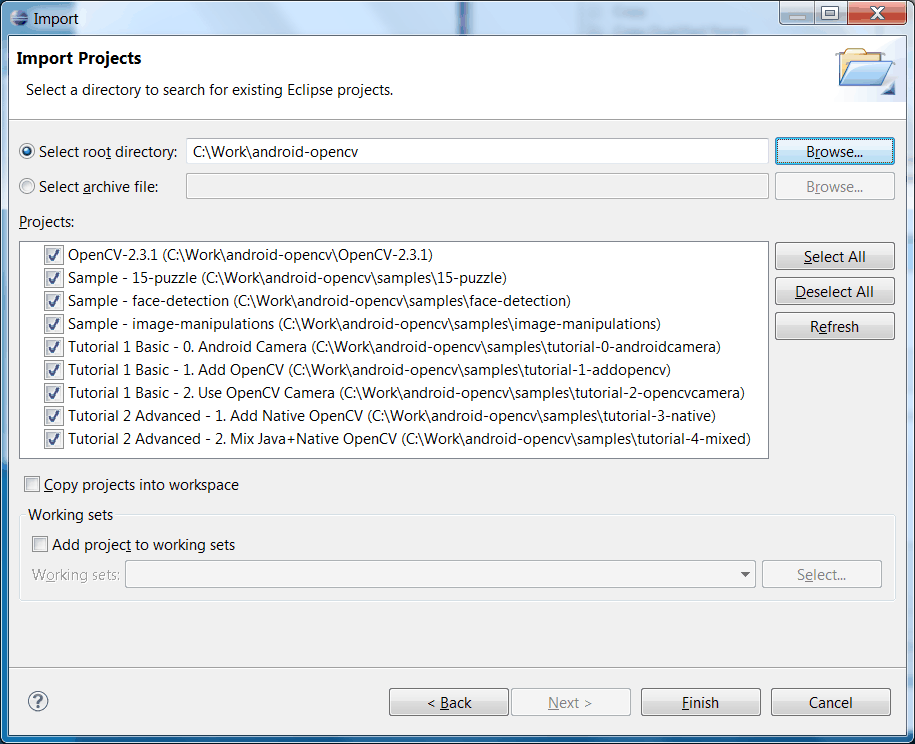
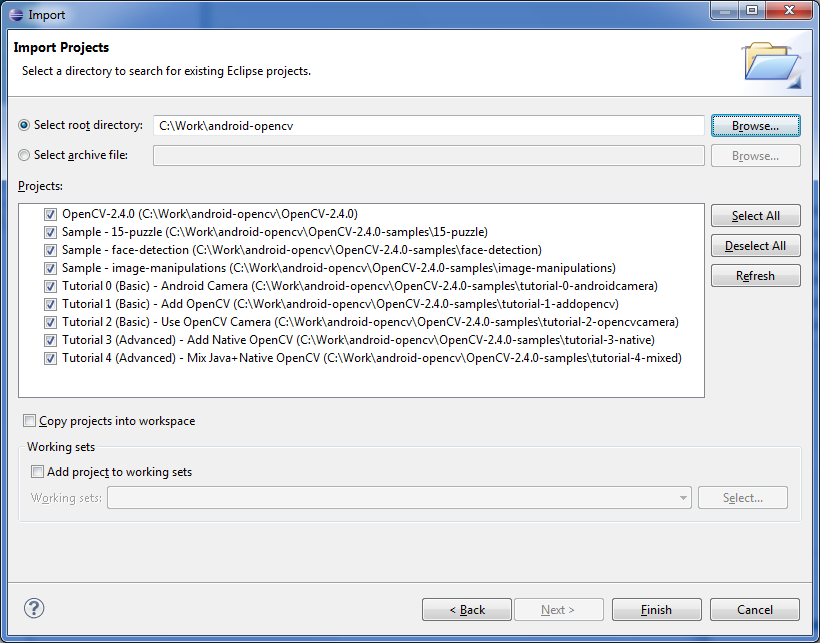
tutorial updated
git-svn-id: file://localhost/home/tolik/svnrepo/trunk@8654 c5418bc3-7546-4aae-8bad-fa6f2f3e53e6

Changed region(s): [[0.0, 0.0, 1.0, 1.0]]

diff --git a/opencv/doc/tutorials/introduction/android_binary_package/android_binary_package.rst b/opencv/doc/tutorials/introduction/android_binary_package/android_binary_package.rst
@@ -89,7 +89,7 @@ You need the following tools to be installed:
    * *SDK Platform Android 3.0, API 11* (also known as  *android-11*)
 
      The minimal platform supported by OpenCV Java API is **Android 2.2** (API 8). This is also the minimum API Level required for the provided samples to run.
-     See the ``<uses-sdk android:minSdkVersion="8"/>`` tag in their **AndroidManifest.xml** file.
+     See the ``<uses-sdk android:minSdkVersion="8"/>`` tag in their **AndroidManifest.xml** files.
      But for successful compilation of some samples the **target** platform should be set to Android 3.0 (API 11) or higher. It will not block them from running on  Android 2.2+.
      
      .. image:: images/android_sdk_and_avd_manager.png
@@ -175,23 +175,29 @@ Open OpenCV library and samples in Eclipse
          :alt: Choosing C:\Work\android-opencv\ as workspace location
          :align: center
 
-#. Configure your ADT plugin
+#. Configure your ADT plugin (if needed)
 
-   .. important:: ADT plugin settings are workspace-dependent. So you have to repeat this step each time when you create a new workspace.
+   .. important:: In most cases the ADT plugin finds Android SDK automatically, but  sometimes  it  fails and shows the following prompt:
 
-   Once you have created a new workspace, you have to point the ADT plugin to the Android SDK directory. This setting is stored in workspace metadata, as result this step is required each time when you are creating new workspace for Android development. See `Configuring the ADT Plugin
-   <http://developer.android.com/sdk/eclipse-adt.html#configuring>`_ document for the original instructions from *Google*.
+      .. image:: images/eclipse_1a_locate_sdk.png
+         :alt: Locating Android SDK
+         :align: center
+
+   Select  :guilabel:`Use existing SDKs` option, browse for Android SDK folder and click :guilabel:`Finish`.
+   
+   To make sure the SDK folder is set correctly do the following step taken from  `Configuring the ADT Plugin  <http://developer.android.com/sdk/eclipse-adt.html#configuring>`_ document from *Google*:
    
    * Select :menuselection:`Window --> Preferences...` to open the Preferences panel (Mac OS X: :menuselection:`Eclipse --> Preferences`):
 
       .. image:: images/eclipse_2_window_preferences.png
-         :height: 400px 
          :alt: Select Window > Preferences...
          :align: center
    
    * Select :guilabel:`Android` from the left panel.
 
-    You may see a dialog asking whether you want to send usage statistics to *Google*. If so, make your choice and click :guilabel:`Proceed`. You cannot continue with this procedure until you click :guilabel:`Proceed`.
+    You may see a dialog asking whether you want to send usage statistics to *Google*. If so, make your choice and click :guilabel:`Proceed`.  You cannot continue with this procedure until you click :guilabel:`Proceed`.
+
+   If the SDK folder isn't set you'll see the following:
 
       .. image:: images/eclipse_3_preferences_android.png
          :alt: Select Android from the left panel
@@ -199,7 +205,9 @@ Open OpenCV library and samples in Eclipse
 
    * For the SDK Location in the main panel, click :guilabel:`Browse...` and locate your Android SDK directory. 
 
-   * Click :guilabel:`Apply` button at the bottom right corner of main panel:
+   * Click :guilabel:`Apply` button at the bottom right corner of main panel.
+   
+   If the SDK folder is already set correctly you'll see something like this:
 
       .. image:: images/eclipse_4_locate_sdk.png
          :alt: Locate Android SDK
@@ -245,6 +253,20 @@ Open OpenCV library and samples in Eclipse
    
    To help Eclipse to understand that there are no any errors choose OpenCV library in :guilabel:`Package Explorer` (left mouse click) and press :kbd:`F5` button on your keyboard. Then choose any sample (except first samples in *Tutorial Base* and *Tutorial Advanced*) and also press :kbd:`F5`.
    
+   Sometimes more advanced manipulations are needed:
+
+   * The provided projects are configured for `android-11` target that can be missing platform in your Android SDK. After right click on any project select  :guilabel:`Properties` and then :guilabel:`Android` on the left pane. Click some target with `API Level` 11 or higher:
+
+      .. image:: images/eclipse_8a_target.png
+         :alt: Updating target
+         :align: center
+
+   * Sometimes a project needs fixing its project properties. After right click on any project select  :guilabel:`Android Tools` and then :guilabel:`Fix Project Properties` in sub-menu:
+
+      .. image:: images/eclipse_8b_fix_props.png
+         :alt: Fixing project properties
+         :align: center
+   
    After this manipulation Eclipse will rebuild your workspace and error icons will disappear one after another:
 
       .. image:: images/eclipse_9_errors_dissapearing.png
@@ -257,8 +279,6 @@ Open OpenCV library and samples in Eclipse
          :alt: OpenCV package imported into Eclipse
          :align: center
 
-   .. note:: If you are importing only OpenCV library without samples then instead of second refresh command (:kbd:`F5`) you might need to make :menuselection:`Android Tools --> Fix Project Properties` from project context menu.
-   
 Running OpenCV Samples
 ======================
 
@@ -266,7 +286,7 @@ At this point you should be able to build and run all samples except two from Ad
 
 Also I want to note that only ``Tutorial 1 Basic - 0. Android Camera`` and ``Tutorial 1 Basic - 1. Add OpenCV`` samples are able to run on Emulator from Android SDK. Other samples are using OpenCV Native Camera which does not work with emulator.
 
-.. note:: Latest *Android SDK tools, revision 12* can run ARM v7 OS images but *Google* does not provide such images with SDK.
+.. note:: Latest *Android SDK tools, revision 14* can run ARM v7 OS images but *Google* provides such image for Android 4.x only.
 
 Well, running samples from Eclipse is very simple:
 
